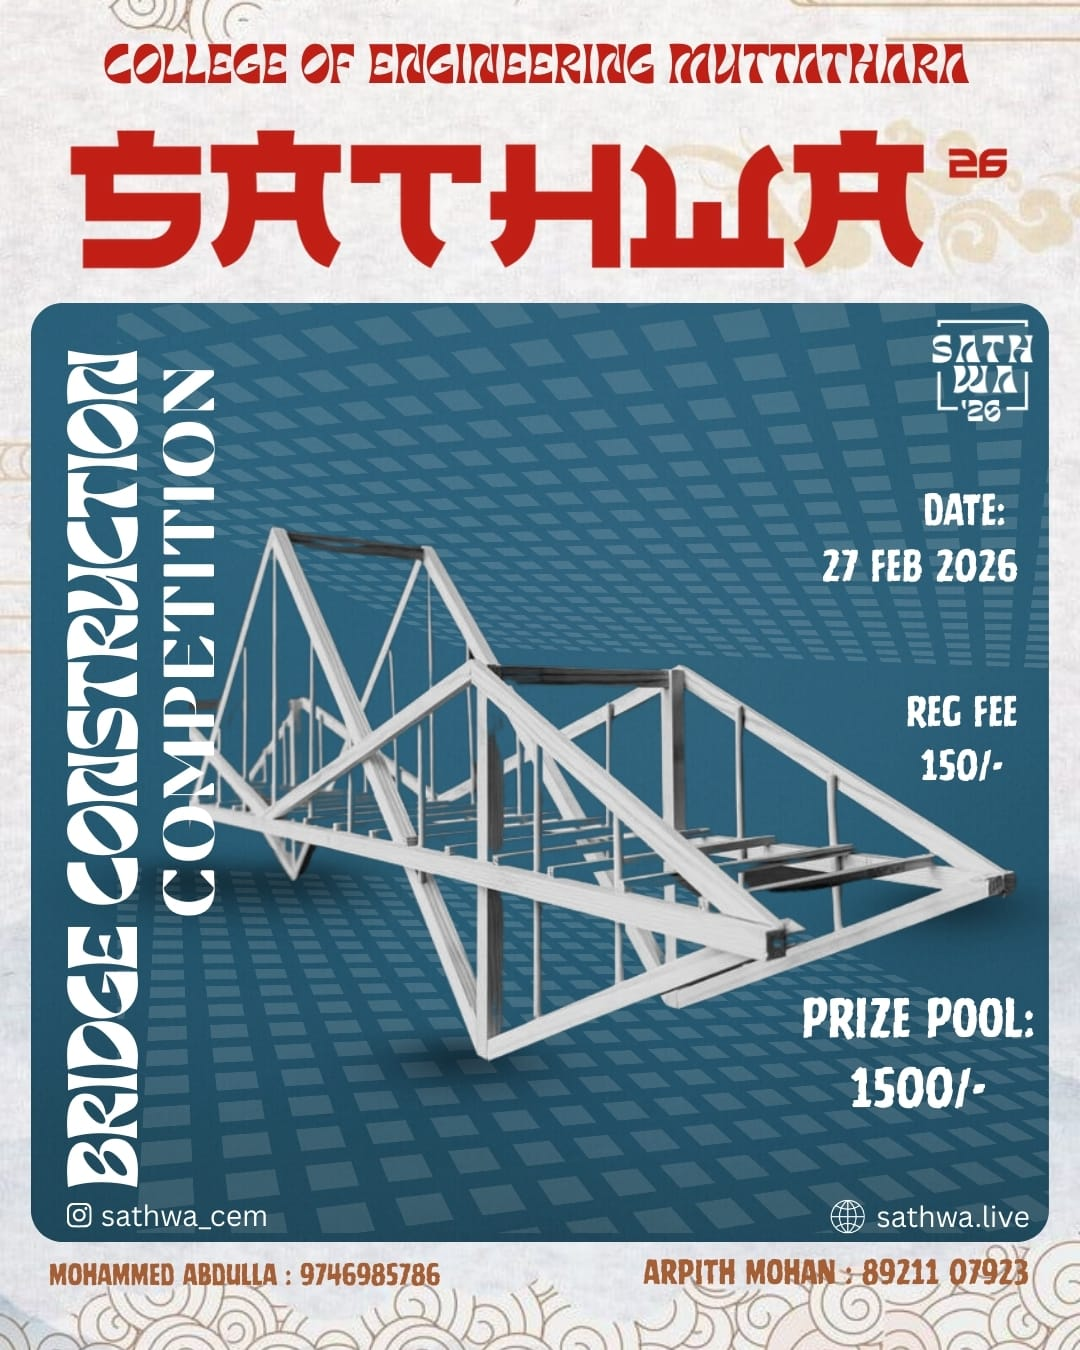
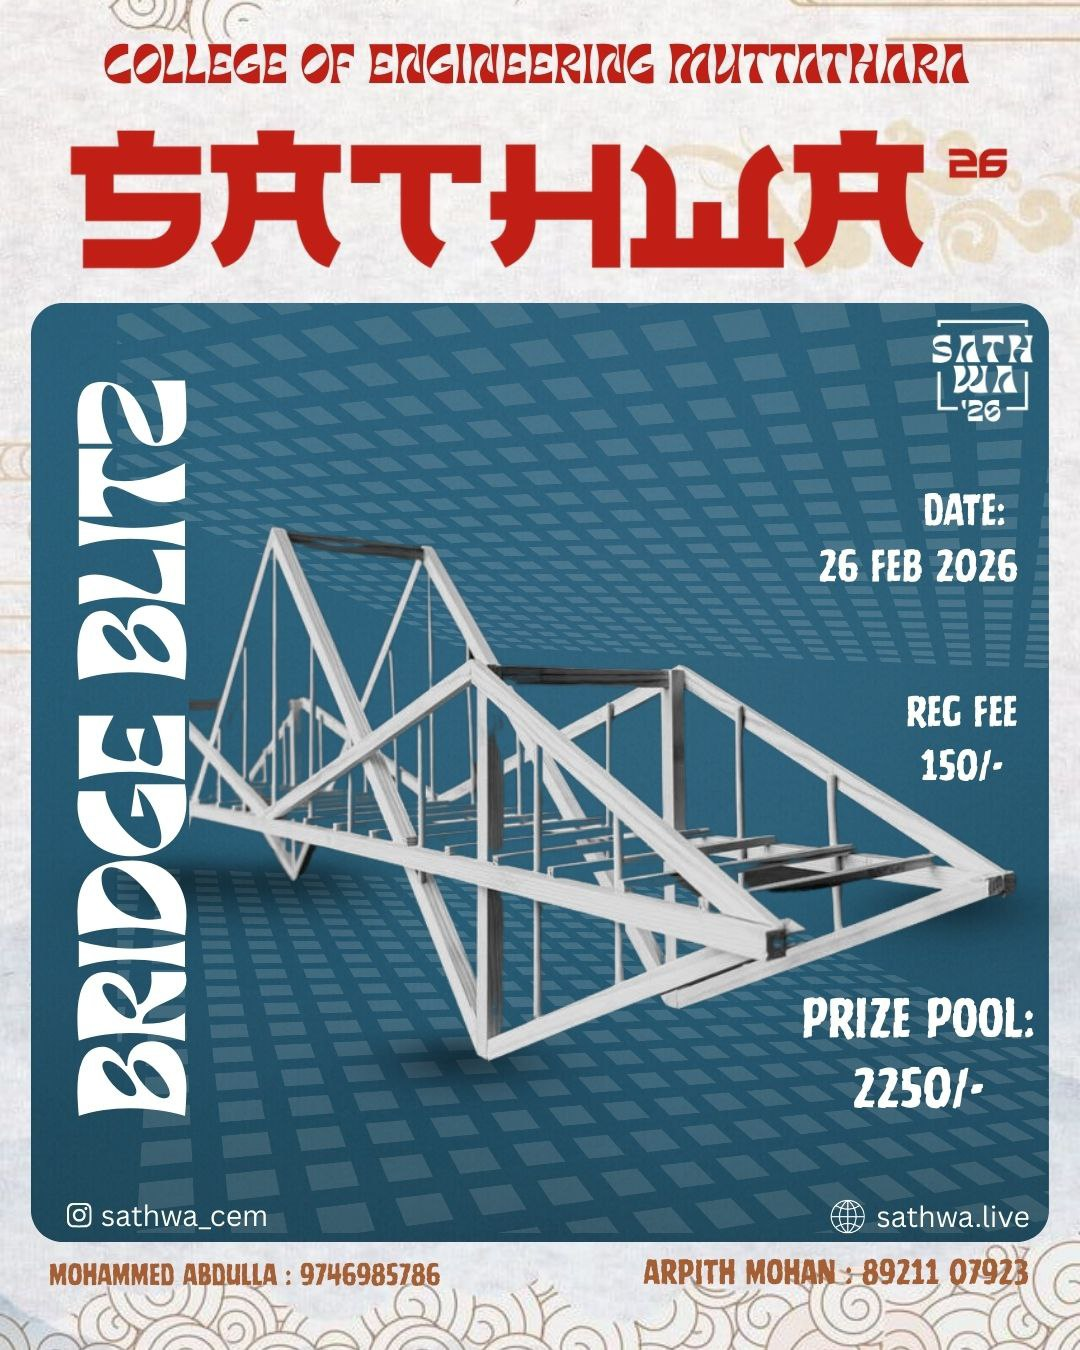
chore: update prize pool amount and replace bridge construction image

Changed region(s): [[0.0611, 0.2489, 0.2139, 0.9022], [0.7944, 0.7778, 0.9167, 0.84], [0.7639, 0.4044, 0.7944, 0.4356]]

diff --git a/data/competitions.js b/data/competitions.js
@@ -154,7 +154,7 @@ export const competition = [
       "https://docs.google.com/forms/d/e/1FAIpQLSeTPghI8czfARDgNeY9Dn-pDletLbV4dBE5ZuxAEVfNvIG93Q/viewform?usp=dialog",
     isRegOpen: true,
     price: "150",
-    pricePool: "1500",
+    pricePool: "2250",
     guidelines:
       "Participants should report on time. Specifications will be given on the spot. The bridge must be completed within two hours, with additional time given only if required. Mobile phones are prohibited during match hours. A team can consist of only three members.",
     note: "Follow all instructions given at the venue.",
@@ -230,29 +230,6 @@ export const competition = [
     contact: [
       { name: "Bharadwaj S R", no: "9778241387" },
       { name: "Abhishak", no: "9074800168" },
-    ],
-    details: false,
-  },
-  {
-    name: "Hardware Debugging",
-    categoryId: 1,
-    searchKey: "hardware-debugging",
-    type: "tech",
-    date: "26 Feb 2026",
-    dateShort: "26/02/2026",
-    about:
-      "Hardware Debugging is a multi-round competition where participants identify and fix faults in electronic circuits across different stages.",
-    url: "/assets/competitions/hardware-debugging.jpeg",
-    regLink: "https://forms.gle/gUEkLx9DWUAgM1qT9",
-    isRegOpen: true,
-    price: "199",
-    pricePool: "1800",
-    guidelines:
-      "Participation can be individual or team-based as specified by organizers. The event consists of three rounds with possible elimination after each round. Participants must report at least 15 minutes before the start time. Circuits will contain intentional faults, and participants must identify and rectify them. Only components, tools, and instruments provided by organizers are allowed; personal tools or components are not permitted. Any damage due to mishandling will lead to disqualification. Use of mobile phones, smart devices, or internet during the competition is strictly prohibited. Each round has a strict time limit. Judging is based on accuracy of fault identification, correctness of debugging, and time taken.",
-    note: "Strict rules against device usage.",
-    contact: [
-      { name: "Sameera", no: "8921017008" },
-      { name: "Abin", no: "6238483998" },
     ],
     details: false,
   },
